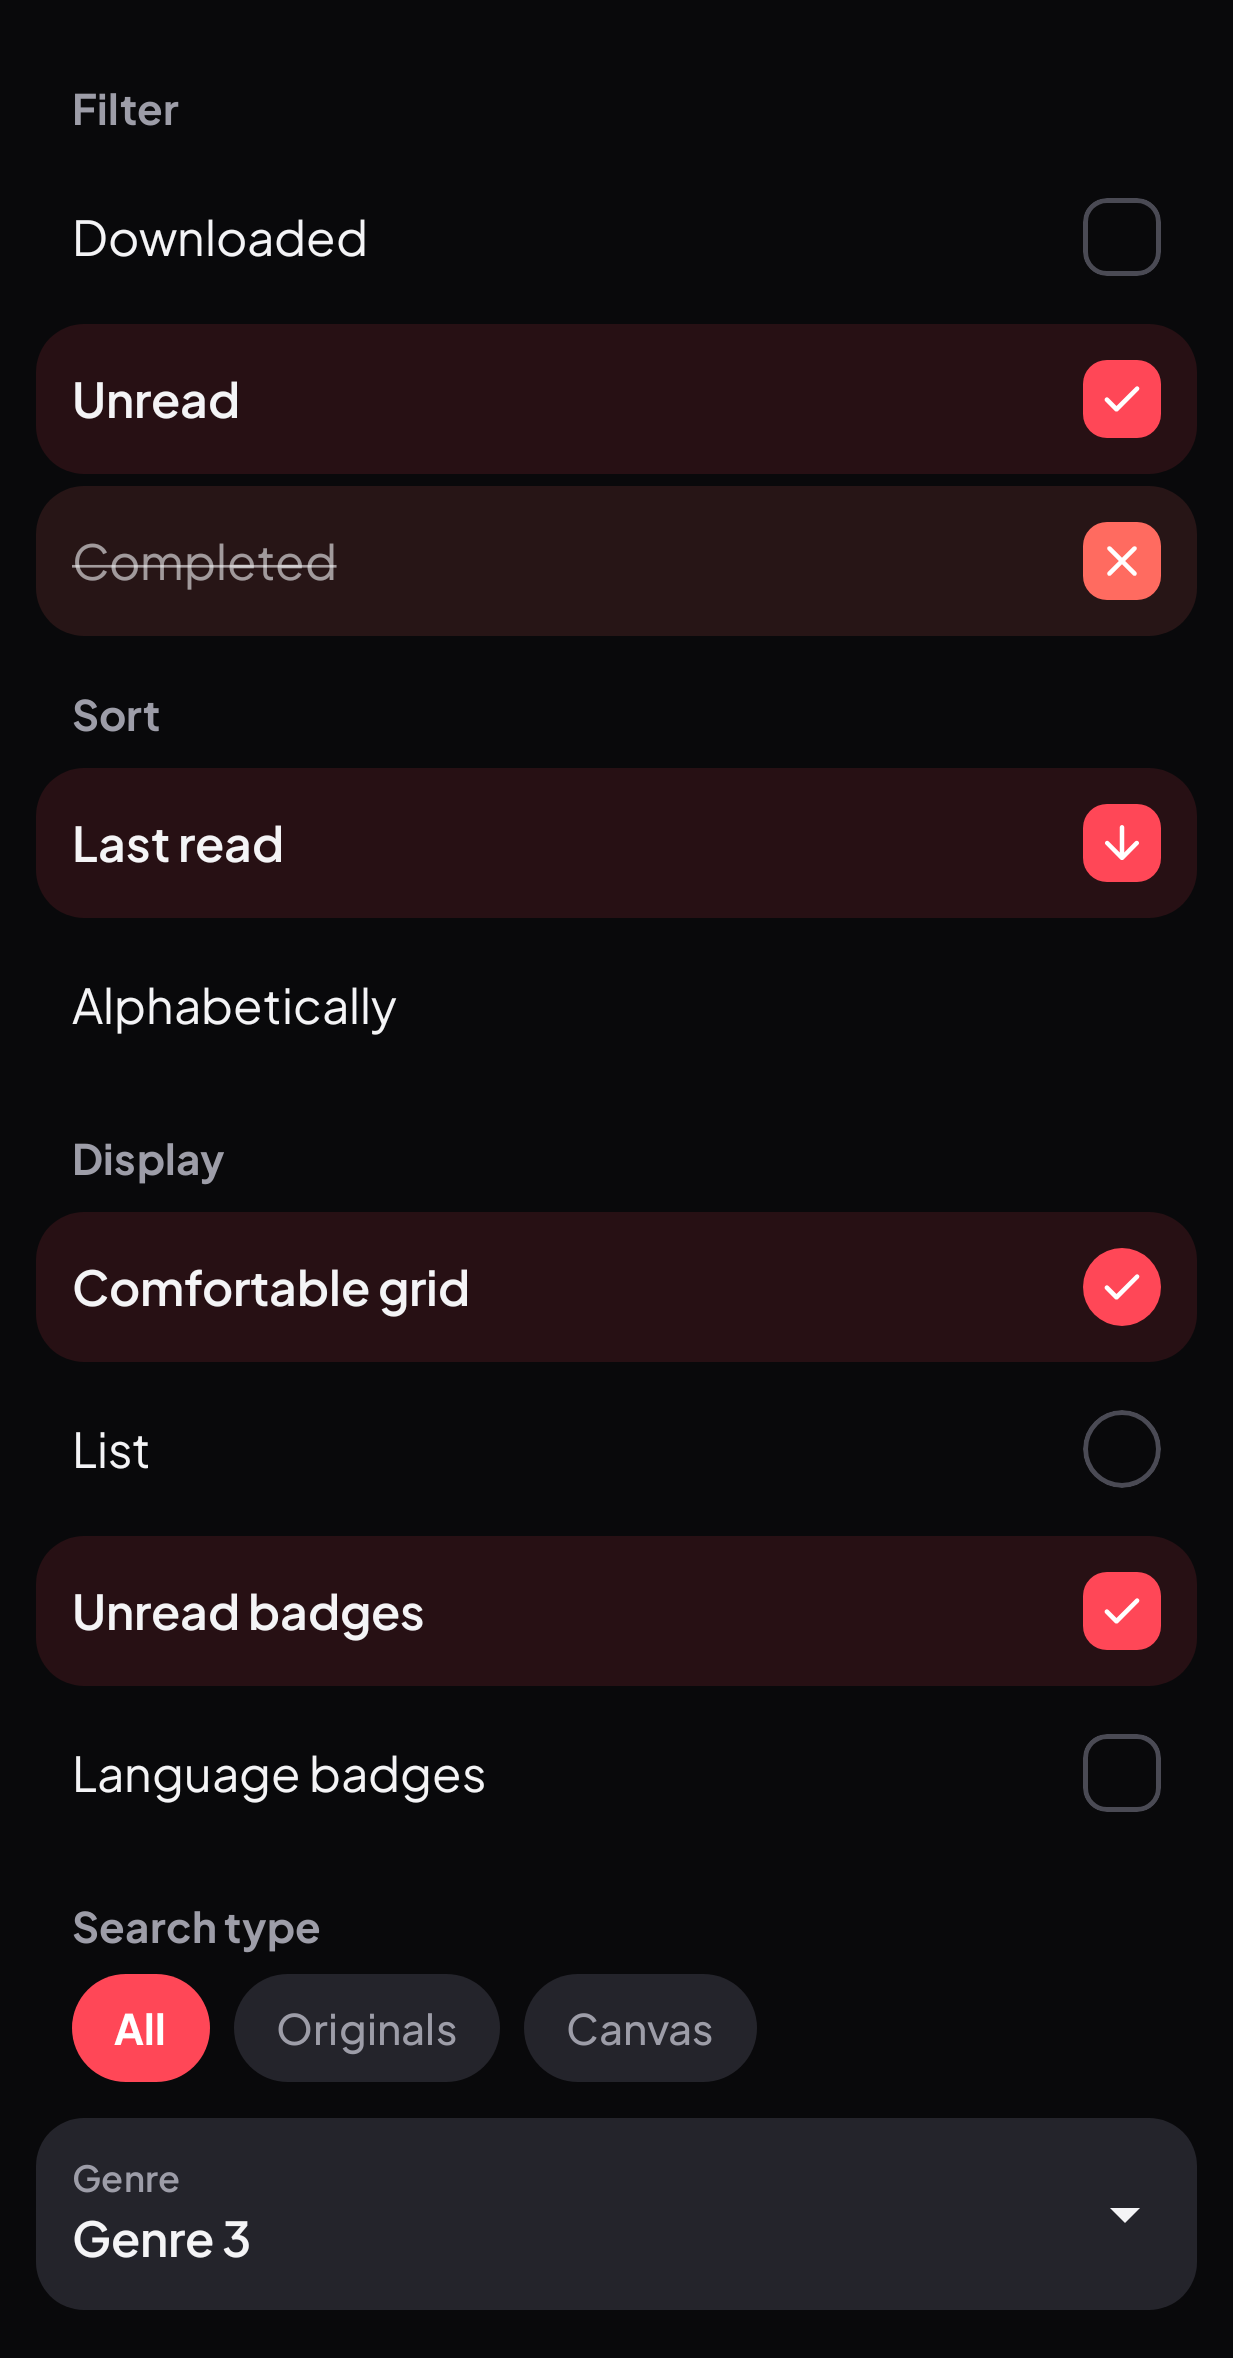
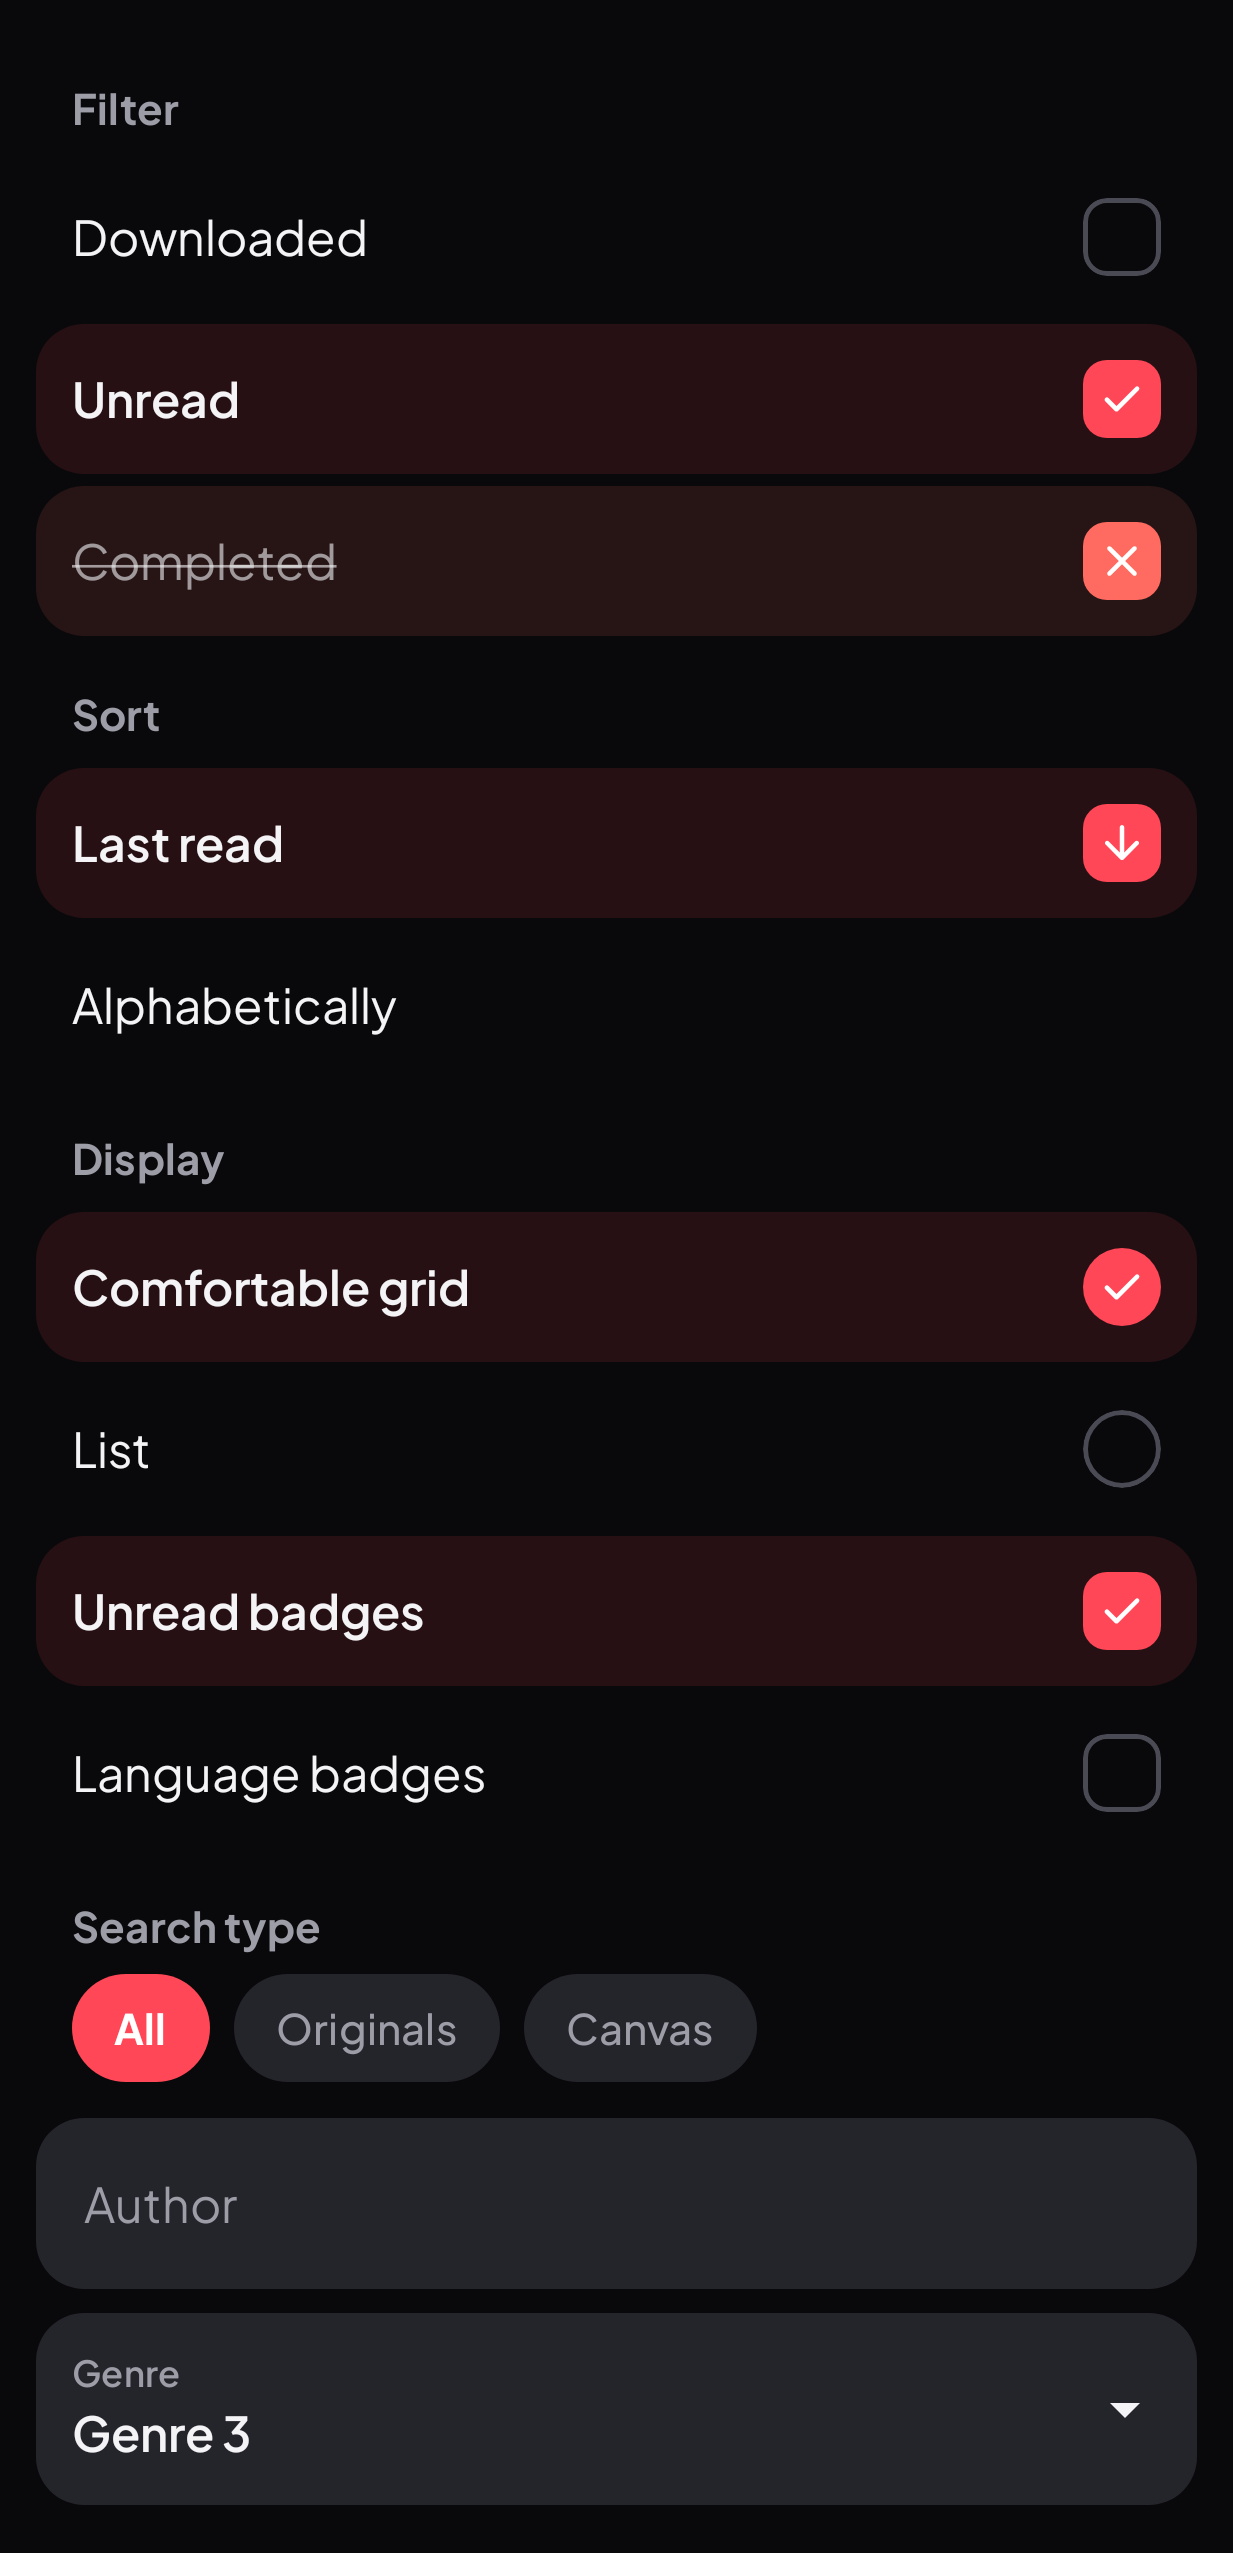
Filter text fields as rounded tonal fields

diff --git a/presentation-core/src/main/java/tachiyomi/presentation/core/components/SettingsItems.kt b/presentation-core/src/main/java/tachiyomi/presentation/core/components/SettingsItems.kt
@@ -29,9 +29,10 @@ import androidx.compose.material3.Icon
 import androidx.compose.material3.LocalContentColor
 import androidx.compose.material3.LocalTextStyle
 import androidx.compose.material3.MaterialTheme
-import androidx.compose.material3.OutlinedTextField
 import androidx.compose.material3.Surface
 import androidx.compose.material3.Text
+import androidx.compose.material3.TextField
+import androidx.compose.material3.TextFieldDefaults
 import androidx.compose.material3.darkColorScheme
 import androidx.compose.material3.lightColorScheme
 import androidx.compose.runtime.Composable
@@ -501,14 +502,21 @@ private fun StateMark(
 
 @Composable
 fun TextItem(label: String, value: String, onChange: (String) -> Unit) {
-    OutlinedTextField(
+    TextField(
         modifier = Modifier
             .fillMaxWidth()
-            .padding(horizontal = SettingsItemsPaddings.Horizontal, vertical = 4.dp),
+            .padding(horizontal = RowInset, vertical = 4.dp),
         label = { Text(text = label) },
         value = value,
         onValueChange = onChange,
         singleLine = true,
+        shape = RowShape,
+        colors = TextFieldDefaults.colors(
+            focusedContainerColor = MaterialTheme.colorScheme.surfaceContainerHighest,
+            unfocusedContainerColor = MaterialTheme.colorScheme.surfaceContainerHighest,
+            focusedIndicatorColor = Color.Transparent,
+            unfocusedIndicatorColor = Color.Transparent,
+        ),
     )
 }
 

diff --git a/app/src/test/java/kurotoon/screenshots/KuroScreenshots.kt b/app/src/test/java/kurotoon/screenshots/KuroScreenshots.kt
@@ -769,6 +769,7 @@ class KuroScreenshots {
                 selectedIndex = 0,
                 onSelect = {},
             )
+            tachiyomi.presentation.core.components.TextItem(label = "Author", value = "", onChange = {})
             tachiyomi.presentation.core.components.SelectItem(
                 label = "Genre",
                 options = Array(20) { "Genre $it" },
